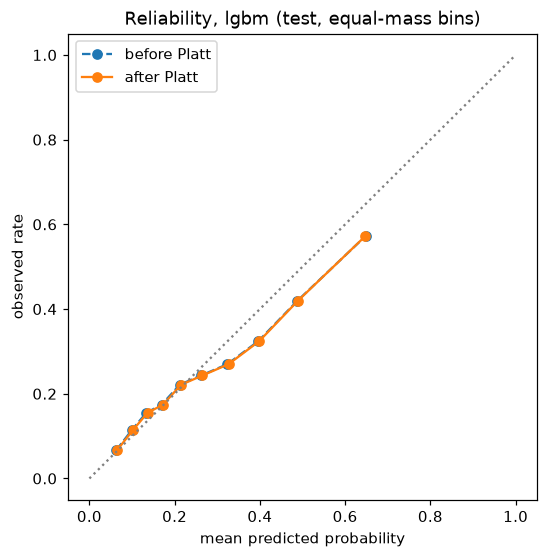
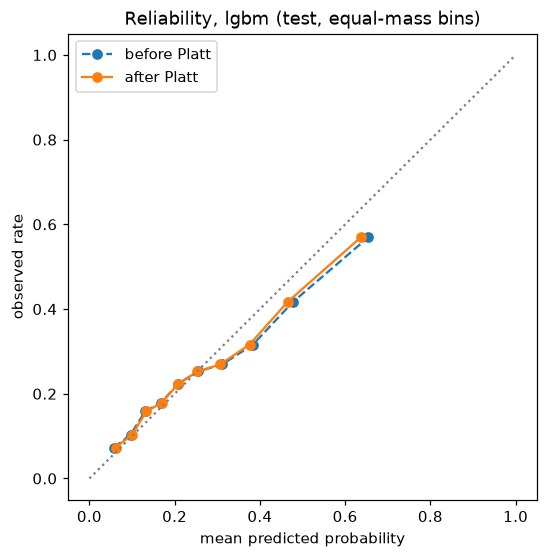
docs: Phase 1 evidence from the end-to-end DAG runs: the champion, the acceptance runs, the pipeline's own charts
- docs/ML_PIPELINE.md: the champion v1 (production window, 119 features: test PR-AUC 0.470,
  0.454-0.486, every gate passed, Checkpoint ML-A 2026-11-17); its bias and mitigation
  results; both tuning runs; the champion's SHAP charts on the score month; what the
  stack showed for the registry (auto-promotion through all seven gates, a held weak
  candidate, a rollback); the nine DAG runs of spec 17.2; known issues with their owners'
  issues (#73-#76).
- docs/img/ml/: the evaluation plots and bias chart from the champion's evaluation, its SHAP
  bar and beeswarm from scoring 2026-10, the tuning plots from the DAG's re-tune.
- README: status, the ML gold line and section 8 show the champion next to the reproduction.
- dvc.lock refreshed (toy_ml's src/evaluation hash after #72; metrics unchanged).

diff --git a/docs/ML_PIPELINE.md b/docs/ML_PIPELINE.md
@@ -4,10 +4,11 @@
 > guidelines (`Model_pipeline.pdf`), with the results on the real gold and the evidence behind them.
 > **The design and every rule:** [`ML_PIPELINE_SPEC.md`](ML_PIPELINE_SPEC.md) (§ numbers below refer to it).
 > **Operating it in Airflow:** [`runbooks/airflow-local.md`](runbooks/airflow-local.md).
-> **Status (November 2026):** Phase 1 is built (work packages W0 to W6). Its training, evaluation and tuning have
-> run on the real gold on the laptop integration stack (Docker Compose: Airflow 3, MLflow, Postgres) against the GCS
-> bucket's `ml-dev/` prefix; the first full DAG run, with Checkpoint ML-A and the first champion, is next. Phase 2
-> moves it to the GCP VM, adds BigQuery and connects the API, the agents and the dashboard.
+> **Status (November 2026):** Phase 1 is built (work packages W0 to W6) and **runs end to end on the real gold** on
+> the laptop integration stack (Docker Compose: Airflow 3, MLflow, Postgres) against the GCS bucket's `ml-dev/`
+> prefix. The first champion (v1) was approved at Checkpoint ML-A on 2026-11-17 and scores 14,686 homes for 2026-10;
+> every acceptance run of spec §17.2 passed on 2026-11-18 (section 14). Phase 2 moves it to the GCP VM, adds
+> BigQuery and connects the API, the agents and the dashboard.
 
 ---
 
@@ -38,17 +39,22 @@
   so scores are computed once a month and stored. There is no model server.
 - **The model.** LightGBM, logistic regression (LR) and their ensemble (the mean of the two members' log-odds) are
   trained on 11 recent months, each calibrated with Platt scaling on out-of-fold predictions. One is chosen on
-  training data only, after a bias check. 119 features from the feature registry (the runs below used 120:
-  `staffing_rating_fn` was excluded since, §14); the base recipe is the best model
-  of the team's exploration (PR #49).
-- **The result.** On the held-out test month 2025-02 (14,643 homes, 3,750 events), in the PR #49 setting, the
-  ensemble reaches **PR-AUC 0.481 (95 % CI 0.465 to 0.498)**, 1.9 times the base rate, ROC-AUC 0.710, Brier 0.169 and
-  ECE 0.026. This reproduces PR #49 (0.481, CI 0.465 to 0.499) with 120 features instead of 133. All three
-  candidates beat the three baselines (prior-G+ rule 0.311, 24-month severity 0.395, star rating 0.330).
+  training data only, after a bias check. 119 features from the feature registry (the PR #49 reproduction and the
+  first tune used 120: `staffing_rating_fn` was excluded since, §14); the base recipe is the best model of the team's
+  exploration (PR #49).
+- **The champion.** Version 1 (LightGBM, production window with the 20-month gap) scores **PR-AUC 0.470 (95 % CI 0.454
+  to 0.486)** on the held-out month 2025-02 (14,643 homes, 3,750 events), 1.83 times the base rate, ROC-AUC 0.706,
+  Brier 0.171, ECE 0.028, beating the best baseline (24-month severity, 0.395) and passing every gate. It was approved
+  at Checkpoint ML-A and now scores every home monthly.
+- **The baseline is reproduced.** In PR #49's own training window the ensemble reaches **PR-AUC 0.481 (0.465 to
+  0.498)**, ROC-AUC 0.710, Brier 0.169, ECE 0.026: PR #49's 0.481 (0.465 to 0.499) with 120 features instead of 133.
 - **Bias.** No gated group is clearly miscalibrated (no O−E 95 % CI lies wholly outside ±0.05). Reweighting by ownership costs
-  ranking (OOF PR-AUC 0.523 to 0.517) and helps no group, so it is available (`bias.mitigation: reweight`) but off.
-- **Tuning.** 30 Optuna trials on 3 facility-grouped folds: every trial scores between 0.509 and 0.511; LR's `C`
-  (importance 0.41) and LightGBM's `max_depth` (0.23) matter most. The surface is flat, so PR #49's parameters stay.
+  ranking (OOF PR-AUC 0.511 to 0.505) and widens the largest gap, so it is available (`bias.mitigation: reweight`) but off.
+- **Tuning.** 30 Optuna trials on 3 facility-grouped folds, twice: every trial scores between 0.509 and 0.511, and
+  `max_depth` and LR's `C` matter most. The surface is flat, so PR #49's parameters stay.
+- **End to end.** On the stack the DAG skipped a run with nothing new, rescored identically, re-tuned alone, promoted
+  a second version automatically through all seven gates, held a deliberately weak candidate, and rolled back by
+  moving the alias, each run emailing its summary (section 14).
 - **MLOps.** One Airflow DAG (`cms_nh_ml`), every step a CLI command in the same Docker image; MLflow tracking and a
   model registry with `@champion` and `@challenger`; seven deterministic gates; rollback by moving the alias; an
   email for every run; the whole chain runs on synthetic data in CI on every pull request.
@@ -176,7 +182,27 @@ of 45, 90 and 60 minutes and no retry. Behaviour lives in `configs/ml.yaml`; the
 95 % facility-bootstrap intervals (1,000 replicates). The classification threshold (0.254) is the OOF max-F1 point,
 never chosen on test.
 
-**Test 2025-02, reproduction run** (14,643 homes, 3,750 events, base rate 25.6 %):
+**Test 2025-02, the champion's evaluation** (run `phase1-retrain-2`, production window 2022-05 to 2023-04, 119
+features; 14,643 homes, 3,750 events, base rate 25.6 %; threshold 0.255):
+
+| | PR-AUC (95 % CI) | lift | ROC-AUC | Brier | ECE | P@5 % | P@10 % | Accuracy | Precision | Recall | F1 |
+|---|---|---|---|---|---|---|---|---|---|---|---|
+| ensemble | 0.470 (0.455-0.487) | 1.84 | 0.705 | 0.170 | 0.025 | 0.646 | 0.566 | 0.640 | 0.381 | 0.645 | 0.479 |
+| **lgbm (selected, champion v1)** | **0.470 (0.454-0.486)** | 1.83 | 0.706 | 0.171 | 0.028 | 0.643 | 0.569 | 0.638 | 0.381 | 0.660 | 0.483 |
+| lr | 0.465 (0.449-0.481) | 1.81 | 0.699 | 0.171 | 0.021 | 0.652 | 0.555 | 0.643 | 0.380 | 0.627 | 0.474 |
+| prior-G+ rule (baseline) | 0.311 (0.301-0.320) | 1.21 | 0.608 | | | | | | | | |
+| 24-month severity (baseline) | 0.395 (0.380-0.410) | 1.54 | 0.657 | | | | | | | | |
+| star rating (baseline) | 0.330 (0.318-0.341) | 1.29 | 0.626 | | | | | | | | |
+
+- PR-AUC over the prior-G+ rule: +0.159 (paired CI +0.147 to +0.173). Precision@1 % is 0.856: of the 146 homes scored
+  highest, 125 had a G to L citation within 12 months.
+- Within a state, PR-AUC is 0.395 and precision@10 % is 0.449. Calibration: ECE 0.028, slope 0.83, mean p 0.271 vs an
+  observed 0.256 (Platt a = 0.957, b = −0.054 on the eval fit).
+- Sanity (G2): no leakage flag; the explanations add up to the score (largest error 1e-14); a model trained on shuffled
+  labels scores ROC-AUC 0.499.
+
+**Test 2025-02, the PR #49 reproduction** (run `repro-purge-1`, PR #49's training window 2023-01 to 2023-11, 120
+features):
 
 | | PR-AUC (95 % CI) | ROC-AUC | Brier | ECE | P@5 % | P@10 % | Accuracy | Precision | Recall | F1 |
 |---|---|---|---|---|---|---|---|---|---|---|
@@ -192,8 +218,11 @@ never chosen on test.
 - Within a state, PR-AUC is 0.397 and precision@10 % is 0.425: the model ranks homes inside a state, not only states.
 - **2025-02 is a development month** (PR #49 chose its window and parameters on it). It is reported, never used for
   a decision; Checkpoint ML-A reads 2025-03 or later once the late-November release brings it into the test window.
-- **Production setting:** with the 20-month gap the eval fit is older. W2's first full chain on the same gold
-  (PR #62) gave lgbm PR-AUC 0.470 (0.454-0.486) on 2025-02, every gate passing.
+- PR #49's window is 7 months more recent than the production window (its data ends 15 months before 2025-02
+  instead of 22), hence its slightly higher PR-AUC (0.481 against 0.470): the cost of evaluating with the same lag
+  that production has.
+
+*Charts: the champion's evaluation (`phase1-retrain-2/report/`), drawn by `ml evaluate`.*
 
 | | |
 |---|---|
@@ -220,7 +249,13 @@ in-hospital (`state` joins with the Benjamini-Hochberg correction in Phase 2, ML
 and 50 events: (a) against the champion, no group's |O−E| grows by more than 0.03 or its PR-AUC
 drops by more than 0.05; (b) no group's O−E CI lies entirely outside ±0.05. A failure holds the model and emails.
 
-**Result (reproduction run, lgbm, test 2025-02):** 0 calibration failures: no gated group's O−E 95 % CI lies wholly
+**Result (champion v1, test 2025-02):** 0 calibration failures. Across all reported non-geographic values, the largest
+gaps are SFF candidates (−0.051, 433 homes, CI −0.096 to −0.007; reported, not gated), homes with 200+ beds (+0.044,
+CI +0.014 to +0.073), homes under 50 beds (−0.031) and 1-star homes (−0.029); the model over-predicts overall by 1.5
+points (mean p 0.271 vs 0.256), which explains most of the negative gaps. States differ most (Oregon −0.185, Hawaii
+−0.176, South Dakota +0.168, Mississippi +0.162): reported, not gated (below).
+
+**Result (reproduction run, lgbm):** 0 calibration failures: no gated group's O−E 95 % CI lies wholly
 outside ±0.05. Across all reported non-geographic values, gated or not, the largest gaps are SFF candidates (−0.050,
 433 homes, CI −0.094 to −0.006; SFF status is reported, not gated), homes under 50 beds (−0.045) and homes with 200+
 beds (+0.040). Most of each group's gap is one overall shift: on 2025-02 the model over-predicts by
@@ -232,8 +267,9 @@ data analysis found); they are reported, not gated, and per-state shrinkage is P
 
 ![Bias by slice](img/ml/bias_slices.png)
 
-*Per slice value: O−E with its 95 % CI against ±0.05 (red would mean G7(b) fails), PR-AUC against all homes, and the
-false-negative rate at the top 10 %. Homes in brackets.*
+*The champion's bias chart (`phase1-retrain-2/report/bias_slices.png`, drawn by `ml evaluate`): per slice value, O−E with
+its 95 % CI against ±0.05 (red would mean G7(b) fails), PR-AUC against all homes, and the false-negative rate at the
+top 10 %. Homes in brackets.*
 
 ### 7.3 Mitigation and its trade-off
 Every `evaluate` refits the selected candidate fold by fold with **inverse-frequency sample weights on ownership
@@ -242,13 +278,16 @@ never on test. Setting `bias.mitigation: reweight` makes `train` fit every membe
 change, so it goes through the gates. Other remedies the guidelines name (re-sampling, per-group thresholds) are not
 used: the score is a calibrated probability, and per-group thresholds would break calibration across groups.
 
-| Variant (eval-window OOF, lgbm, 162,276 rows) | PR-AUC | Brier | ECE | largest gated \|O−E\| | miscalibrated groups |
+| Variant (eval-window OOF, lgbm) | PR-AUC | Brier | ECE | largest gated \|O−E\| | miscalibrated groups |
 |---|---|---|---|---|---|
-| none (in use) | 0.523 | 0.1666 | 0.0050 | 0.018 | 0 |
-| reweight (ESS 71,987) | 0.517 | 0.1678 | 0.0044 | 0.013 | 0 |
+| **champion v1** (production window, 163,066 rows): none (in use) | 0.511 | 0.1609 | 0.0050 | 0.016 | 0 |
+| champion v1: reweight (ESS 72,158) | 0.505 | 0.1618 | 0.0055 | 0.022 | 0 |
+| reproduction (162,276 rows): none | 0.523 | 0.1666 | 0.0050 | 0.018 | 0 |
+| reproduction: reweight (ESS 71,987) | 0.517 | 0.1678 | 0.0044 | 0.013 | 0 |
 
-**Decision:** keep `none`. No group is miscalibrated, so there is nothing to fix; reweighting costs 0.006 PR-AUC to
-move the largest gap from 0.018 to 0.013. The trade-off is recomputed and printed in every model card, so the
+**Decision (made at Checkpoint ML-A):** keep `none`. No group is miscalibrated, so there is nothing to fix. On the
+production window reweighting costs 0.006 PR-AUC **and widens** the largest gap (0.016 to 0.022); on the reproduction
+window it narrowed it slightly at the same cost. The trade-off is recomputed and printed in every model card, so the
 decision is revisited every month.
 
 ---
@@ -269,8 +308,9 @@ decision is revisited every month.
 | min_split_gain | 0 to 1 | cat_smooth | 1 to 100 |
 | LR `C` | 0.03, 0.1, 0.3, 1.0 | | |
 
-- **Result** (run `tune-phase1-1`, production window, 889 s): best CV PR-AUC **0.5112** (trial 19); every trial is
-  between 0.509 and 0.511 (median 0.5106). Best: learning rate 0.070, 99 leaves, depth 4, 102 trees, LR `C` 1.0.
+- **Result**, two runs on the production window:
+  - `tune-phase1-1` (CLI, 120 features, 889 s): best CV PR-AUC **0.5112**; trials 0.509 to 0.511.
+  - `p1-retune-1` (the DAG's `mode=retune`, 119 features, 11 min): best **0.5111** (trial 22); trials 0.5091 to 0.5111 (median 0.5104). Its best: learning rate 0.076, 112 leaves, depth 3, 146 trees, LR `C` 1.0.
 - **Output and decision:** `tuning/tuning_proposal.yaml`, ready to paste into `ml.yaml`, but applied only through a
   reviewed PR (ML-19). The gain over the current parameters is within noise, so PR #49's parameters stay. In Phase 1 a
   re-tune runs only by hand (`mode=retune`); a drift flag emails a request for one.
@@ -283,7 +323,16 @@ decision is revisited every month.
 Contributions are exact: TreeSHAP for LightGBM, `w·(z − mean)` for LR, the weighted mean for the ensemble, scaled by
 the Platt slope, so for every home base + Σ contributions = the calibrated log-odds (checked to 1e-14 by gate G2).
 
-![Top 20 features by mean |SHAP|](img/ml/shap_top20.png)
+![Top 20 features by mean |SHAP|, champion's eval fit on the test month](img/ml/shap_top20.png)
+
+| | |
+|---|---|
+| ![SHAP summary (beeswarm) of the champion on the score month 2026-10](img/ml/shap_beeswarm_champion.png) | ![Mean absolute SHAP of the champion on 2026-10](img/ml/shap_bar_champion.png) |
+
+*Top: the champion's eval fit on the test month (from `evaluate`'s `shap_mean_abs.csv`). Bottom: the champion scoring
+2026-10 (`phase1-promote-1/score/`, drawn by `ml score`). In the beeswarm, red is a high feature value: more complaint
+surveys with citations, more beds, higher staff turnover and more past G+ surveys push the risk up; small homes push it
+down.*
 
 - **Location and history dominate:** the home's state and the state's recent G+ rate (inspection practice differs by
   state), size, and the home's own complaint and citation history (complaint surveys cited, citations, recent G+
@@ -294,9 +343,13 @@ the Platt slope, so for every home base + Σ contributions = the calibrated log-
   month. `scripts/ml_checkpoint_reasons.py` prints the same reasons for any registered version (Checkpoint ML-A).
 
 ### 9.2 Hyperparameters
-fANOVA importances from the tuning run: **LR `C` 0.41, `max_depth` 0.23**, `cat_smooth` 0.07, `min_split_gain` 0.07,
-`colsample_bytree` 0.07, the rest 0.04 or less (learning rate 0.01). Higher `C` (weaker LR regularisation, 22 of 30
-trials) and shallow trees (depth 3 to 4) score best; the spread across all trials is only 0.002 PR-AUC.
+fANOVA importances:
+- `p1-retune-1` (charts below): **`max_depth` 0.49**, `min_split_gain` 0.15, **LR `C` 0.14**, learning rate 0.09, the rest 0.04 or less.
+- `tune-phase1-1`: LR `C` 0.41, `max_depth` 0.23, the rest 0.07 or less.
+
+Both runs agree on what matters (tree depth and LR's regularisation) and on the best region: shallow trees (depth 3
+to 4) and `C` = 1.0 (22 of 30 trials each). The ordering moves between runs because the whole spread is only 0.002
+PR-AUC, so these importances describe a flat surface, not a strong lever.
 
 | | |
 |---|---|
@@ -349,6 +402,15 @@ difference excludes zero.
 - **Rollback:** the same `mode=promote` with an earlier version. Only a version that passed G1 and G2 can be promoted;
   every promotion and rollback is an `ml_runs` row, and `score` refuses a champion whose alias moved outside it.
 
+**What the stack showed** (registry `precursor_y_g12`, 2026-11-17 and 18):
+
+| Version | Run | Gates | Outcome |
+|---|---|---|---|
+| v1 | `phase1-retrain-2` | G1-G4, G6, G7 pass; G5 skipped (no champion) | `@challenger` (first version) → **Checkpoint ML-A** → `@champion` (`phase1-promote-1`) |
+| v2 | `p1-retrain-2` | **all seven pass**, incl. G5 "not worse than the champion" and G7(a) "12 slice values compared" | **promoted automatically** (v1 → v2), scored and published in the same run |
+| v3 | `p1-bad-candidate-1` (its 5 strongest features excluded on purpose) | **G5 fail**: PR-AUC −0.021 vs the champion (paired CI −0.029 to −0.013); also G2 (see section 15) | **held** as `@challenger`; the champion was unchanged |
+| v1 | `p1-rollback-v1` (`mode=promote`, version 1) | (G1, G2 checked) | **rollback** v2 → v1, audited (`ml_runs` action `rollback`), scored with v1 |
+
 ---
 
 ## 12. CI/CD, notifications and containers
@@ -363,7 +425,10 @@ difference excludes zero.
   at a release (the VM runs the data pipeline today; the ML DAG moves there in Phase 2).
 - **Notifications** (`dags/cms_nh_ml.py: notify`, `precursorintelligence.alerts`): every finished run emails its
   summary (decision, gate outcome, champion version, test PR-AUC and Brier with CIs, drift flags, a re-tune request);
-  a failed run emails the failure (`on_dag_failure`).
+  a failed run emails the failure (`on_dag_failure`). On the stack, every DAG run from `phase1-retrain-2` on emailed the team (the alert settings were added after the
+  first run; the CLI run sends none), e.g.
+  `[cms_nh_ml] RETRAIN 2026-10` and `[cms_nh_ml] PROMOTE 2026-10: 3 flag(s); re-tune requested` (that re-tune request
+  was a false alarm: section 15).
 - **Containers:** every step runs in `precursor-pipeline` (built from `uv.lock`, with the `ml` and `bias` extras); the
   same image runs in CI, in Airflow and by hand. MLflow has its own image (`docker/mlflow.Dockerfile`).
 - **Reproducibility:** fits are seeded and deterministic; a run is keyed on gold's `dataset_version` and the
@@ -404,21 +469,35 @@ publishes and is monitored. A rollback is the same `promote` with an earlier ver
 
 ## 14. The runs behind the numbers
 
-All on the laptop integration stack `ml_dev` (Airflow 3 + MLflow + Postgres in Docker Compose, task containers on the
-pipeline image built from `dev` at `a7cbf98`), reading the gold run `20261112T020010Z-543cdc`
-(`dataset_version` `3f9bac9367ae18ec`), on 2026-11-16. Each step ran in a 7 GB container.
+All on the laptop integration stack `ml_dev` (Airflow 3 + MLflow + Postgres in Docker Compose), reading the gold run
+`20261112T020010Z-543cdc` (`dataset_version` `3f9bac9367ae18ec`). Each task ran in a container capped at 7 GB; the
+largest step peaked at 3.1 GB.
+
+**The DAG runs** (`cms_nh_ml`, pipeline image from `dev` at `5153046`, 119 features, 2026-11-17 and 18). Together they
+are spec §17.2's acceptance list:
+
+| Run | Mode | Result |
+|---|---|---|
+| `phase1-retrain-1` | `retrain` | failed at `gate`: a real MLflow server refused the registration of a logged model without its id; fixed in PR #72 (the tests and CI use a SQLite store, which accepts it) |
+| `phase1-retrain-2` | `retrain` | decide → prepare → train → evaluate → gate in 10 minutes; v1 `@challenger`; summary email |
+| `phase1-promote-1` | `promote` v1 (Checkpoint ML-A) | v1 `@champion`; 14,686 homes scored for 2026-10 (scores, reasons, SHAP, 612 chains); `status/latest.json`; email |
+| `p1-auto-1` | `auto` | **SKIP**: "nothing new: trained for this gold and recipe, and its scores are published" |
+| `p1-score-only-1` | `score_only` | the same partition rewritten with **identical scores** (all four tables; only `ml_run_id` and `scored_at` differ) |
+| `p1-retune-1` | `retune` | `tune` alone (section 8); nothing trained, gated or promoted |
+| `p1-retrain-2` | `retrain` | v2 through all seven gates, **promoted automatically** (section 11) |
+| `p1-bad-candidate-1` | CLI, an `ml.yaml` copy without the 5 strongest features | v3 **held** on G5 (section 11) |
+| `p1-rollback-v1` | `promote` v1 | **rollback** v2 → v1 (section 11) |
+
+**The earlier CLI runs** (pipeline image from `dev` at `a7cbf98`, 2026-11-16):
 
 | Run (`ml/runs/<id>/`) | Config | Steps | Time, peak memory | MLflow |
 |---|---|---|---|---|
 | `repro-purge-1` | `ml.yaml` with `eval_gap: purge` (PR #49's setting), 120 features | prepare, train, evaluate (no gate: nothing registered) | 175 s / 3.0 GB, 390 s / 2.3 GB, 160 s / 2.0 GB | experiment `precursor_y_g12_reproduction`; train `3497311c`, evaluate `c5fb373a` |
 | `tune-phase1-1` | `ml.yaml` (production window) | prepare, tune | 154 s / 3.1 GB, 889 s / 2.3 GB | experiment `precursor_y_g12`; tune `9fce913e` |
 
-- The charts in `img/ml/` come from these runs; `bias_slices.png` and `shap_top20.png` were drawn from
-  `repro-purge-1`'s `evaluation.json` and `shap_mean_abs.csv` with the pipeline's own plotting code (the bias chart
-  was added in PR #69, after these runs).
-- Since these runs, `staffing_rating_fn` is excluded (PR #69): the production recipe has 119 features.
-- W2's full chain on the same gold (PR #62, a teammate's laptop): prepare → train → evaluate → gate in about 15
-  minutes, every gate passing, registered as `@challenger`.
+- The charts in `img/ml/` come from the DAG runs: the evaluation plots and the bias chart from `phase1-retrain-2/report/`,
+  the champion's SHAP charts from `phase1-promote-1/score/`, the tuning plots from `p1-retune-1/tuning/`;
+  `shap_top20.png` is drawn from `phase1-retrain-2`'s `shap_mean_abs.csv` with the pipeline's own plotting code.
 
 ---
 
@@ -432,3 +511,8 @@ pipeline image built from `dev` at `a7cbf98`), reading the gold run `20261112T02
   challenger and an automatic re-tune; the performance trend and score drift in monitoring; per-state empirical-Bayes
   shrinkage; MLflow authentication (the UI is local only today); the API, the four agents and the dashboard.
 - **States differ most** in calibration; they are reported, not gated, until per-state shrinkage lands.
+- **Known issues found on the stack**, each with the work package's owner:
+  - **#73:** `monitor` is skipped on a run without scores (the first version), so no status file is written. And PSI on a feature with one value per state (`state_gplus_rate_12m`) reads 0.96 for a 0.003 change, which emailed a **false re-tune request** after the promotion.
+  - **#74:** `ml promote` doesn't verify the target's packages before moving the alias. And G2's single shuffled-label model is noisy: 0.4835, 0.4987 and 0.5253 on real data; the last failed the [0.48, 0.52] band.
+  - **#75:** provenance (`gold_run_id`) and robustness gaps in `score`.
+  - **#76:** gaps in `recipe_hash` and in tune's MLflow run.

diff --git a/README.md b/README.md
@@ -11,9 +11,10 @@ scores.
 > **Status (branch `dev`, November 2026):** the **data pipeline runs end to end**, locally and against the GCS
 > bucket: ingestion → bronze → silver → gold, with schema and drift validation, data bias slicing, alerts, DVC and
 > CI. **The ML pipeline (Phase 1) is built** (work packages W0 to W6): one Airflow DAG, `cms_nh_ml`, trains, evaluates,
-> bias-checks, gates, registers, scores, explains and monitors, with MLflow tracking and a model registry; its
-> training, evaluation and tuning have run on the real gold on the laptop compose stack against GCS (section 8). Phase 2 moves the ML pipeline to the GCP VM and adds BigQuery, the
-> agents, the API and the dashboard.
+> bias-checks, gates, registers, scores, explains and monitors, with MLflow tracking and a model registry. It runs end
+> to end on the real gold on the laptop compose stack against GCS: the first champion was approved on 2026-11-17 and
+> scores every home monthly (section 8). Phase 2 moves the ML pipeline to the GCP VM and adds BigQuery, the agents,
+> the API and the dashboard.
 
 ---
 
@@ -64,9 +65,10 @@ scores.
 (t = 2023-01 → 2026-08). A full backfill through Airflow into the GCS bucket ran 37/37 tasks green in 26.5 min and
 gave gold byte-identical to the local-disk run of the same zips (PR #30).
 
-**ML gold and model (`ml-dev/`, V = 2026-10, rows from 2022-01):** 775,400 home-months × 148 columns, 52 months. On
-the held-out month 2025-02 the model reaches PR-AUC 0.481 (95 % CI 0.465 to 0.498), 1.9 times the base rate,
-reproducing the team's best exploration model (PR #49); section 8.
+**ML gold and model (`ml-dev/`, V = 2026-10, rows from 2022-01):** 775,400 home-months × 148 columns, 52 months. The
+champion (v1, LightGBM) scores PR-AUC 0.470 (95 % CI 0.454 to 0.486) on the held-out month 2025-02, 1.8 times the base
+rate, and scores all 14,686 homes for 2026-10; in PR #49's training window the recipe reproduces the team's best
+exploration model (0.481); section 8.
 
 ---
 
@@ -347,26 +349,37 @@ behind the numbers: [`docs/ML_PIPELINE.md`](docs/ML_PIPELINE.md). Stage numbers 
 | CI/CD, alerts, rollback | the whole chain on a synthetic gold on every pull request (a held gate fails CI); an email for every run; rollback = promote an earlier version | 5, 7 |
 | Docker | every step is `precursor-pipeline ml <command>` in the `precursor-pipeline` image | all |
 
-**Results on the real gold** (held-out month 2025-02: 14,643 homes, 25.6 % with a G to L citation within 12 months;
-PR #49's training window):
+**Results on the real gold** (held-out month 2025-02: 14,643 homes, 25.6 % with a G to L citation within 12 months):
 
-| Model | PR-AUC (95 % CI) | ROC-AUC | Brier | ECE | Precision@5 % |
-|---|---|---|---|---|---|
-| PR #49's ensemble (133 features) | 0.481 (0.465-0.499) | 0.709 | 0.169 | 0.027 | 0.682 |
-| **Ensemble** (120 features) | **0.481 (0.465-0.498)** | 0.710 | 0.169 | 0.026 | 0.676 |
-| LightGBM (selected on out-of-fold PR-AUC 0.523) | 0.478 (0.461-0.494) | 0.709 | 0.170 | 0.034 | 0.660 |
-| Best baseline: 24-month citation severity | 0.395 (0.380-0.410) | | | | |
+| Model | Training window | PR-AUC (95 % CI) | ROC-AUC | Brier | ECE | Precision@5 % |
+|---|---|---|---|---|---|---|
+| **Champion v1: LightGBM, 119 features** (in production on the stack) | production: 2022-05 to 2023-04, the same 20-month lag as live scoring | **0.470 (0.454-0.486)** | 0.706 | 0.171 | 0.028 | 0.643 |
+| Ensemble, 120 features (reproduction) | PR #49's: 2023-01 to 2023-11 | 0.481 (0.465-0.498) | 0.710 | 0.169 | 0.026 | 0.676 |
+| PR #49's ensemble, 133 features | PR #49's | 0.481 (0.465-0.499) | 0.709 | 0.169 | 0.027 | 0.682 |
+| Best baseline: 24-month citation severity | | 0.395 (0.380-0.410) | 0.657 | | | |
 
-- **The baseline model is reproduced** within its CI, with fewer features; every candidate beats every baseline.
-- **Bias:** no gated group is clearly miscalibrated (no O−E 95 % CI wholly outside ±0.05). Reweighting by ownership would cost 0.006 out-of-fold
-  PR-AUC to shrink the largest gap from 0.018 to 0.013, so it stays off; the trade-off is in every model card.
-- **Tuning:** 30 trials all score between 0.509 and 0.511; LR's `C` and the tree depth matter most, so the base
+- **The champion** beats every baseline (by +0.159 PR-AUC over the prior-G+ rule) and passed every gate. It was
+  approved at Checkpoint ML-A on 2026-11-17 and scores all 14,686 homes for 2026-10, with reasons and chain roll-ups.
+- **The baseline model is reproduced** in its own window, with fewer features. The production window scores a little
+  lower because its data is 7 months older, as live scoring's is.
+- **End to end on the stack** (spec §17.2, all passed):
+  - a run with nothing new skips;
+  - a rescore is identical;
+  - a re-tune runs alone;
+  - a second version was promoted automatically through all seven gates;
+  - a deliberately weak candidate was held;
+  - a rollback moved the champion back.
+
+  Every run emails its summary.
+- **Bias:** no gated group is clearly miscalibrated (no O−E 95 % CI wholly outside ±0.05). Reweighting by ownership
+  would cost 0.006 out-of-fold PR-AUC and widen the largest gap (0.016 to 0.022), so it stays off; the trade-off is
+  in every model card.
+- **Tuning:** two runs of 30 trials, all between 0.509 and 0.511; tree depth and LR's `C` matter most, so the base
   parameters stay (a proposal is applied only through a reviewed PR).
 - **What drives the score:** the home's state and the state's recent G+ rate, its size, and its own complaint and
   citation history; staffing and quality measures add the rest.
 - **Caveat:** labels mature 20 months after `t`, so 2025-02 is the newest test month, and PR #49 chose its settings on
-  it. It is reported, not used for decisions; the production window (a 20-month gap) scored 0.470 (0.454-0.486) in
-  W2's first full run (PR #62).
+  it. It is reported, not used for decisions; the first honest month, 2025-03, comes with the late-November release.
 
 <table>
 <tr>
@@ -379,8 +392,9 @@ PR #49's training window):
 </tr>
 </table>
 
-*Candidates and baselines on the test month; the top 20 features by mean |SHAP|; bias by slice (calibration gap
-with its CI against ±0.05, PR-AUC, false-negative rate at the top 10 %); hyperparameter importances from tuning.*
+*From the champion's runs: candidates and baselines on the test month; the top 20 features by mean |SHAP|; bias by
+slice (calibration gap with its CI against ±0.05, PR-AUC, false-negative rate at the top 10 %); hyperparameter
+importances from the DAG's re-tune.*
 
 To run it: section 10.4.
 
